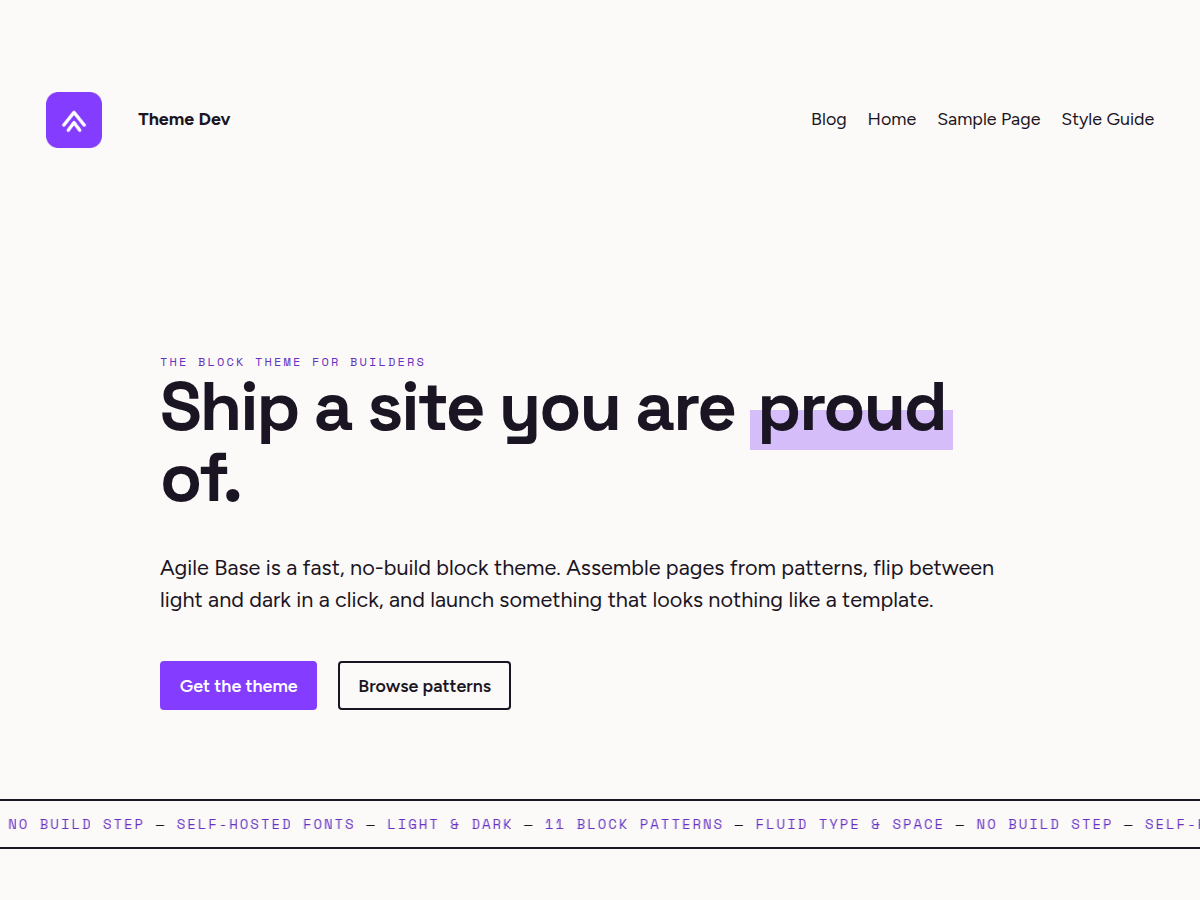
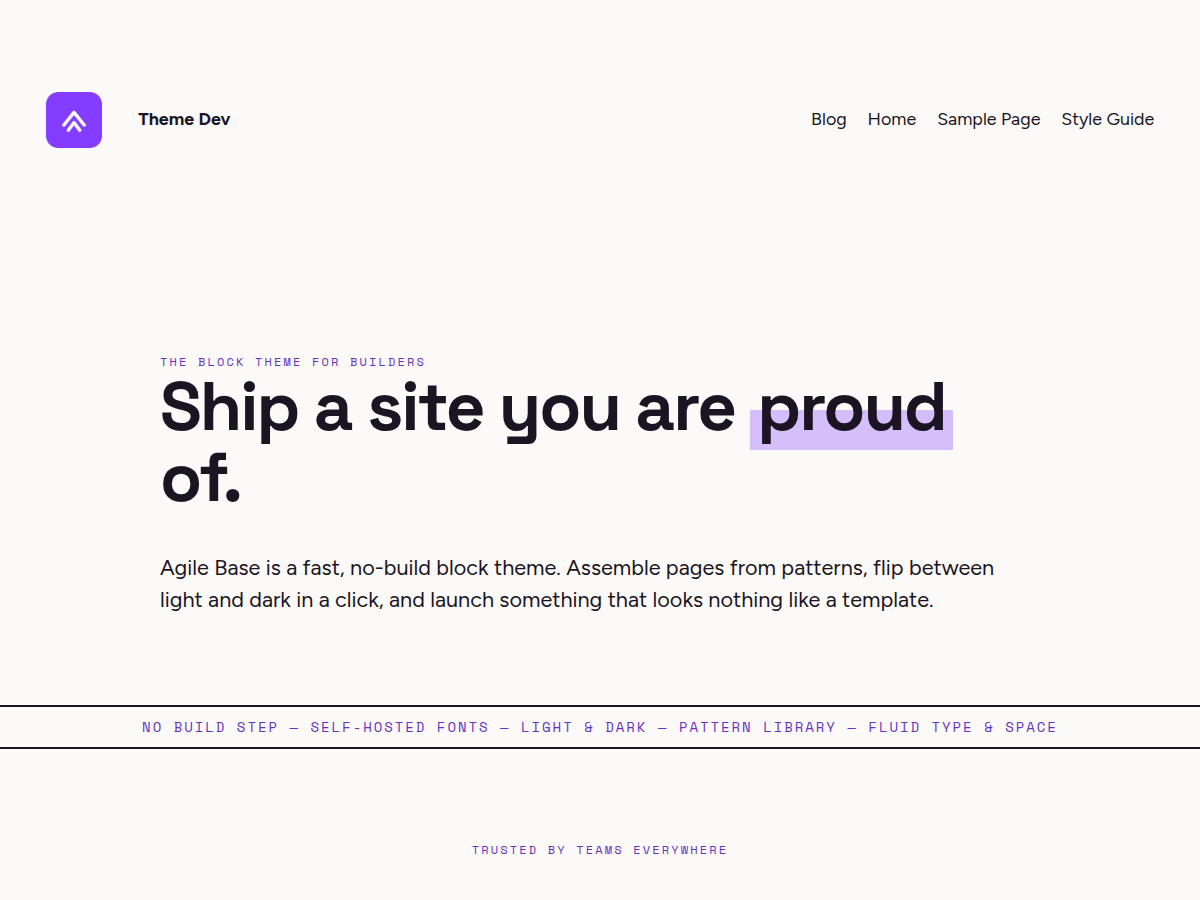
fix(screenshot): capture the homepage as it ships (1.4.1)
The old screenshot came from a draft of the hero with two buttons and a
scrolling "11 block patterns" strip, neither of which shipped. Regenerated
with bin/generate-screenshot.sh against a clean install (no global style
or template overrides), and bumped to 1.4.1 so WordPress.org picks it up.

Claude-Session: https://claude.ai/code/session_01VaMDmUcCWMekJrygfcgX8k

diff --git a/style.css b/style.css
@@ -7,7 +7,7 @@ Description: A clean, fast, full site editing block theme for blogs and simple s
 Requires at least: 6.6
 Tested up to: 7.1
 Requires PHP: 7.4
-Version: 1.4.0
+Version: 1.4.1
 License: GNU General Public License v2 or later
 License URI: https://www.gnu.org/licenses/gpl-2.0.html
 Text Domain: agile-base
